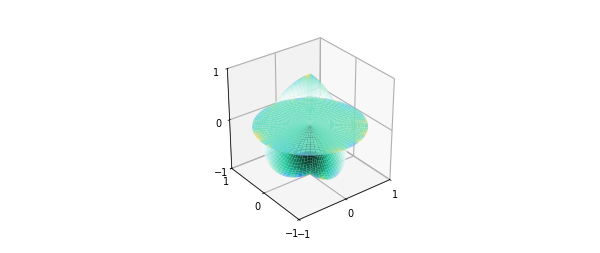
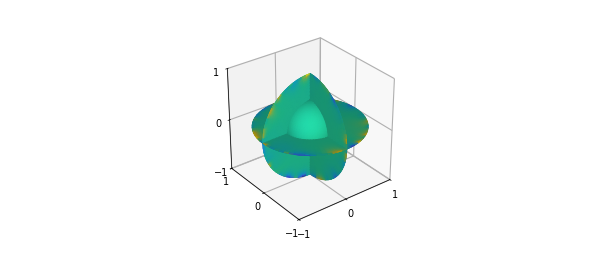
Correct Ballfun surface depth ordering and Cartesian headlight shading
Preserve source grids; qualify JAX normals and material controls plus saved-mesh renderer replay. Retain explicit camera, palette, rasterization and other-page gaps.

Changed region(s): [[0.42, 0.2767, 0.63, 0.7194]]

diff --git a/src/chebfunjax/plotting.py b/src/chebfunjax/plotting.py
@@ -2844,7 +2844,8 @@ def plot_ball_slices(
     """Slice plot of a Ballfun inside the unit ball (MATLAB Chebfun style).
 
     Default slice data follows ``plotBall`` from @ballfun/plot.m.
-    The existing flat-face/heightfield lighting remains an approximate renderer.
+    Default surfaces share triangle depth ordering and Cartesian vertex lighting.
+    Gouraud interpolation and mean-depth sorting remain approximate rendering.
     Produces 5 surfaces: 1 sphere at r≈0.5, 2 constant-elevation slices,
     2 constant-lambda half-planes. Coordinates use MATLAB's sph2cart
     convention where theta is elevation [-pi/2, pi/2].
@@ -2862,6 +2863,14 @@ def plot_ball_slices(
     Returns
     -------
     fig, ax
+
+    Provenance
+    ----------
+    MATLAB source: @ballfun/plot.m; material.m and camlight.m (R2025b).
+    Chebfun commit: 7574c77.
+    Default Cartesian normals, dull material and local headlight replace the
+    old heightfield-lighting approximation. Native auto camera, Phong pixels
+    and depth-buffer visibility remain separate qualification gaps.
     """
     import jax.numpy as jnp
 
@@ -2976,24 +2985,53 @@ def plot_ball_slices(
     all_values = np.concatenate([surface[3].ravel() for surface in surfaces])
     norm = _normalize_values(all_values)
 
-    for xs, ys, zs, cdata in surfaces:
-        facecolors = cmap_obj(norm(cdata))
-        ls = LightSource(azdeg=315, altdeg=45)
-        facecolors = facecolors.copy()
-        facecolors[:, :, :3] = ls.shade_rgb(facecolors[:, :, :3], zs)
-        ax.plot_surface(
-            xs,
-            ys,
-            zs,
-            facecolors=facecolors,
-            rstride=1,
-            cstride=1,
-            linewidth=0,
-            antialiased=True,
-            shade=False,
-            **kw,
-        )
+    if style_name == "ball" and not kw:
+        from chebfunjax._sphere_surface import InterpolatedSurfaceGroup
+        from chebfunjax._surface_lighting import dull_headlight_rgb, surface_vertex_normals
 
+        # Native headlight is local at the camera. Map Matplotlib's normalized
+        # plot-box eye back to data coordinates; native automatic camera and
+        # aperture remain separate renderer contracts.
+        ax.set_xlim(-1.0, 1.0)
+        ax.set_ylim(-1.0, 1.0)
+        ax.set_zlim(-1.0, 1.0)
+        ax.set_box_aspect([1, 1, 1])
+        ax.view_init(elev=elev, azim=azim)
+        elevation, azimuth = jnp.deg2rad(jnp.asarray([ax.elev, ax.azim]))
+        direction = jnp.array([jnp.cos(elevation) * jnp.cos(azimuth),
+                               jnp.cos(elevation) * jnp.sin(azimuth),
+                               jnp.sin(elevation)])
+        focal = ax._focal_length if np.isfinite(ax._focal_length) else 1.0
+        camera = 2 * ax._dist * focal * direction / jnp.asarray(ax.get_box_aspect())
+        colored_surfaces = []
+        for xs, ys, zs, cdata in surfaces:
+            rgba = cmap_obj(norm(cdata))
+            normals = surface_vertex_normals(xs, ys, zs)
+            rgba[..., :3] = np.asarray(dull_headlight_rgb(
+                rgba[..., :3], normals, xs, ys, zs, camera,
+                backface="reverselit"))
+            colored_surfaces.append((xs, ys, zs, rgba))
+        artist = InterpolatedSurfaceGroup(colored_surfaces)
+        artist._chebfun_headlight_position = np.asarray(camera)
+        ax.add_collection3d(artist, autolim=False)
+    else:
+        for xs, ys, zs, cdata in surfaces:
+            facecolors = cmap_obj(norm(cdata))
+            ls = LightSource(azdeg=315, altdeg=45)
+            facecolors = facecolors.copy()
+            facecolors[:, :, :3] = ls.shade_rgb(facecolors[:, :, :3], zs)
+            ax.plot_surface(
+                xs,
+                ys,
+                zs,
+                facecolors=facecolors,
+                rstride=1,
+                cstride=1,
+                linewidth=0,
+                antialiased=True,
+                shade=False,
+                **kw,
+            )
     ax.set_xlim(-1.0, 1.0)
     ax.set_ylim(-1.0, 1.0)
     ax.set_zlim(-1.0, 1.0)

diff --git a/src/chebfunjax/_surface_lighting.py b/src/chebfunjax/_surface_lighting.py
@@ -1,0 +1,80 @@
+"""Cartesian surface normals and local dull-material headlight.
+
+Provenance
+----------
+MATLAB R2025b toolbox/matlab/graphics/graphics/graph3d/surfnorm.m,
+material.m and camlight.m. Chebfun @ballfun/plot.m, commit 7574c77,
+requests interpolated surface colors, headlight, phong and dull material.
+This ports public SURFNORM arithmetic; equivalence to graphics automatic
+normal generation and historical Phong rasterization is not established.
+"""
+
+import jax.numpy as jnp
+
+
+def surface_vertex_normals(x, y, z):
+    """Return unit Cartesian normals on a grid of at least 3 by 3 vertices.
+
+    Provenance
+    ----------
+    Chebfun commit: 7574c77.
+    MATLAB R2025b graph3d/surfnorm.m:61-109,132-137. Quadratic ghost
+    extrapolation, centered stencils and cross-product orientation are
+    preserved. Degenerate vertices produce zero normals, as the source does.
+    """
+    x, y, z = (jnp.asarray(a) for a in (x, y, z))
+    if x.ndim != 2 or x.shape != y.shape or x.shape != z.shape:
+        raise ValueError('surface coordinates require matching 2D grids')
+    if min(x.shape) < 3:
+        raise ValueError('surface normals require at least 3 by 3 vertices')
+
+    def derivatives(v):
+        v = jnp.concatenate(((3*v[0]-3*v[1]+v[2])[None], v,
+                             (3*v[-1]-3*v[-2]+v[-3])[None]), axis=0)
+        v = jnp.concatenate(((3*v[:, 0]-3*v[:, 1]+v[:, 2])[:, None], v,
+                             (3*v[:, -1]-3*v[:, -2]+v[:, -3])[:, None]), axis=1)
+        a = (v[1:-1, :-2]-v[1:-1, 2:])/2
+        b = (v[2:, 1:-1]-v[:-2, 1:-1])/2
+        return a, b
+
+    ax, bx = derivatives(x)
+    ay, by = derivatives(y)
+    az, bz = derivatives(z)
+    nx = -(ay*bz-az*by)
+    ny = -(az*bx-ax*bz)
+    nz = -(ax*by-ay*bx)
+    magnitude = jnp.sqrt(nx*nx+ny*ny+nz*nz)
+    magnitude = jnp.where(magnitude == 0, jnp.finfo(magnitude.dtype).eps, magnitude)
+    return jnp.stack((nx/magnitude, ny/magnitude, nz/magnitude), axis=-1)
+
+
+def dull_headlight_rgb(rgb, normals, x, y, z, camera_position, *, backface='lit'):
+    """Apply a white local camera light and dull ambient/diffuse material.
+
+    Provenance
+    ----------
+    Chebfun commit: 7574c77.
+    MATLAB R2025b graph3d/material.m:120-123 sets dull ka=.3,kd=.8,ks=0.
+    camlight.m:108-123 puts a local headlight at the camera position.
+    MathWorks Surface Properties documents BackFaceLighting='reverselit':
+    normals facing away from the camera are reversed. With a coincident
+    local headlight this is abs(N dot L). The caller selects this policy
+    explicitly; 'lit' retains oriented normals. White ambient/light colors,
+    RGB clipping and vertex lighting are renderer assumptions, not a claim
+    of exact MATLAB pixel or historical Phong rasterization parity.
+    """
+    if backface not in ('lit', 'reverselit'):
+        raise ValueError("backface must be 'lit' or 'reverselit'")
+    rgb, normals = jnp.asarray(rgb), jnp.asarray(normals)
+    xyz = jnp.stack((jnp.asarray(x), jnp.asarray(y), jnp.asarray(z)), axis=-1)
+    if rgb.shape != xyz.shape or normals.shape != xyz.shape:
+        raise ValueError('RGB, normals and coordinates must have matching vertex shapes')
+    camera_position = jnp.asarray(camera_position)
+    if camera_position.shape != (3,):
+        raise ValueError('camera_position requires three Cartesian coordinates')
+    light = camera_position-xyz
+    magnitude = jnp.sqrt(jnp.sum(light*light, axis=-1, keepdims=True))
+    light = light/jnp.where(magnitude == 0, 1, magnitude)
+    cosine = jnp.sum(normals*light, axis=-1)
+    diffuse = jnp.abs(cosine) if backface == 'reverselit' else jnp.maximum(cosine, 0)
+    return jnp.clip(rgb*(.3+.8*diffuse[..., None]), 0, 1)

diff --git a/tests/test_surface_lighting_source.py b/tests/test_surface_lighting_source.py
@@ -1,0 +1,70 @@
+"""Analytic contracts for source Cartesian surface lighting.
+
+Provenance
+----------
+MATLAB R2025b graph3d/surfnorm.m, material.m and camlight.m.
+"""
+
+import jax
+import jax.numpy as jnp
+import pytest
+
+from chebfunjax._surface_lighting import dull_headlight_rgb, surface_vertex_normals
+
+
+def grid():
+    return jnp.meshgrid(jnp.linspace(-1., 1., 5), jnp.linspace(-1., 1., 7))
+
+
+@pytest.mark.parametrize('compiled', [False, True])
+def test_plane_orientation(compiled):
+    x, y = grid()
+    normal = jnp.array([-2., 3., 1.])/jnp.sqrt(14.)
+    fun = jax.jit(surface_vertex_normals) if compiled else surface_vertex_normals
+    actual = fun(x, y, 2*x-3*y+1)
+    assert float(jnp.max(jnp.abs(actual-normal))) < 2e-15
+    reversed_normal = fun(x[:, ::-1], y[:, ::-1], (2*x-3*y+1)[:, ::-1])
+    assert float(jnp.max(jnp.abs(reversed_normal+normal))) < 2e-15
+
+
+def test_quadratic_boundary_normals():
+    x, y = grid()
+    z = x*x+2*y*y
+    exact = jnp.stack((-2*x, -4*y, jnp.ones_like(x)), axis=-1)
+    exact = exact/jnp.linalg.norm(exact, axis=-1, keepdims=True)
+    assert float(jnp.max(jnp.abs(surface_vertex_normals(x, y, z)-exact))) < 2e-15
+
+
+def test_degenerate_surface():
+    z = jnp.zeros((3, 4))
+    assert bool(jnp.all(surface_vertex_normals(z, z, z) == 0))
+
+
+def test_shape_contracts():
+    with pytest.raises(ValueError, match='3 by 3'):
+        surface_vertex_normals(jnp.zeros((2, 3)), jnp.zeros((2, 3)), jnp.zeros((2, 3)))
+    with pytest.raises(ValueError, match='matching'):
+        surface_vertex_normals(jnp.zeros((3, 3)), jnp.zeros((3, 4)), jnp.zeros((3, 3)))
+
+
+@pytest.mark.parametrize('compiled', [False, True])
+def test_local_headlight_material_and_backface(compiled):
+    x = jnp.array([[0., 3.]])
+    y, z = jnp.zeros_like(x), jnp.zeros_like(x)
+    normals = jnp.array([[[0., 0., 1.], [0., 0., -1.]]])
+    rgb = jnp.full((1, 2, 3), .5)
+    camera = jnp.array([0., 0., 4.])
+    fun = jax.jit(dull_headlight_rgb, static_argnames=('backface',)) if compiled else dull_headlight_rgb
+    lit = fun(rgb, normals, x, y, z, camera, backface='lit')
+    reversed_lit = fun(rgb, normals, x, y, z, camera, backface='reverselit')
+    assert float(jnp.max(jnp.abs(lit-jnp.array([[[.55]*3, [.15]*3]])))) < 2e-16
+    assert float(jnp.max(jnp.abs(reversed_lit-jnp.array([[[.55]*3, [.47]*3]])))) < 2e-16
+
+
+def test_no_specular_and_bounded_output():
+    z = jnp.zeros((1, 1))
+    normals = jnp.array([[[0., 0., 1.]]])
+    black = dull_headlight_rgb(jnp.zeros((1, 1, 3)), normals, z, z, z, jnp.array([0., 0., 1.]))
+    white = dull_headlight_rgb(jnp.ones((1, 1, 3)), normals, z, z, z, jnp.array([0., 0., 1.]))
+    assert bool(jnp.all(black == 0))
+    assert bool(jnp.all(white == 1))

diff --git a/src/chebfunjax/_sphere_surface.py b/src/chebfunjax/_sphere_surface.py
@@ -64,3 +64,30 @@ class InterpolatedSphereSurface(Poly3DCollection):
         finally:
             gc.restore()
         self.stale = False
+
+
+class InterpolatedSurfaceGroup(InterpolatedSphereSurface):
+    """Order triangles from intersecting surface grids in one collection.
+
+    Each input is an ``(x, y, z, rgba)`` tuple. Vertex colors and triangulation
+    are preserved independently for each grid; normals are never averaged
+    across intersections. Mean-depth ordering remains a painter algorithm,
+    so intersecting triangles do not have native OpenGL pixel visibility.
+
+    Provenance
+    ----------
+    MATLAB source: @ballfun/plot.m, plotBall surface loop.
+    Chebfun commit: 7574c77.
+    """
+
+    def __init__(self, surfaces, **kwargs):
+        surfaces = tuple(surfaces)
+        if not surfaces:
+            raise ValueError("at least one surface grid is required")
+        super().__init__(*surfaces[0], **kwargs)
+        parts = [self, *(InterpolatedSphereSurface(*item)
+                         for item in surfaces[1:])]
+        self._source_surfaces = tuple((part._source_vertices,
+                                       part._source_rgba) for part in parts)
+        self._triangle_xyz = np.concatenate([part._triangle_xyz for part in parts])
+        self._triangle_rgba = np.concatenate([part._triangle_rgba for part in parts])

diff --git a/docs/examples/sphere/LaplaceBall.md b/docs/examples/sphere/LaplaceBall.md
@@ -6,7 +6,7 @@
 
 Python translation: [`examples/sphere/laplaceball.py`](https://github.com/ma-gilles/chebfunjax/blob/main/examples/sphere/laplaceball.py)
 
-> Execution qualification: The full public boundary construction, Poisson solve on the source-derived grid (65 in each direction), and inner-sphere extraction were executed using one captured MATLAB R2025b `rng(1)` input vector. This fixture does not establish general RNG parity. The boundary length is 65×65 versus the captured native 65×63; printed Oxford, origin, and inner-mean values differ in their final digits. The Python Cartesian boundary point is evaluated through its equivalent longitude/polar coordinates. Figures were replayed from the saved actual functions and figure objects; colorbars are present, but lighting, framing, and exact pixel parity remain unverified.
+> Execution qualification: The full public boundary construction, Poisson solve on the source-derived grid (65 in each direction), and inner-sphere extraction were executed using one captured MATLAB R2025b `rng(1)` input vector. This fixture does not establish general RNG parity. The boundary length is 65×65 versus the captured native 65×63; printed Oxford, origin, and inner-mean values differ in their final digits. The Python Cartesian boundary point is evaluated through its equivalent longitude/polar coordinates. Figures were replayed from the saved actual functions and figure objects; colorbars are present. Ball slices now use shared triangle depth ordering and Cartesian vertex lighting; native camera, palette, historical Phong shading, and exact pixel parity remain unverified.
 
 ## 1. The Laplace problem
 
